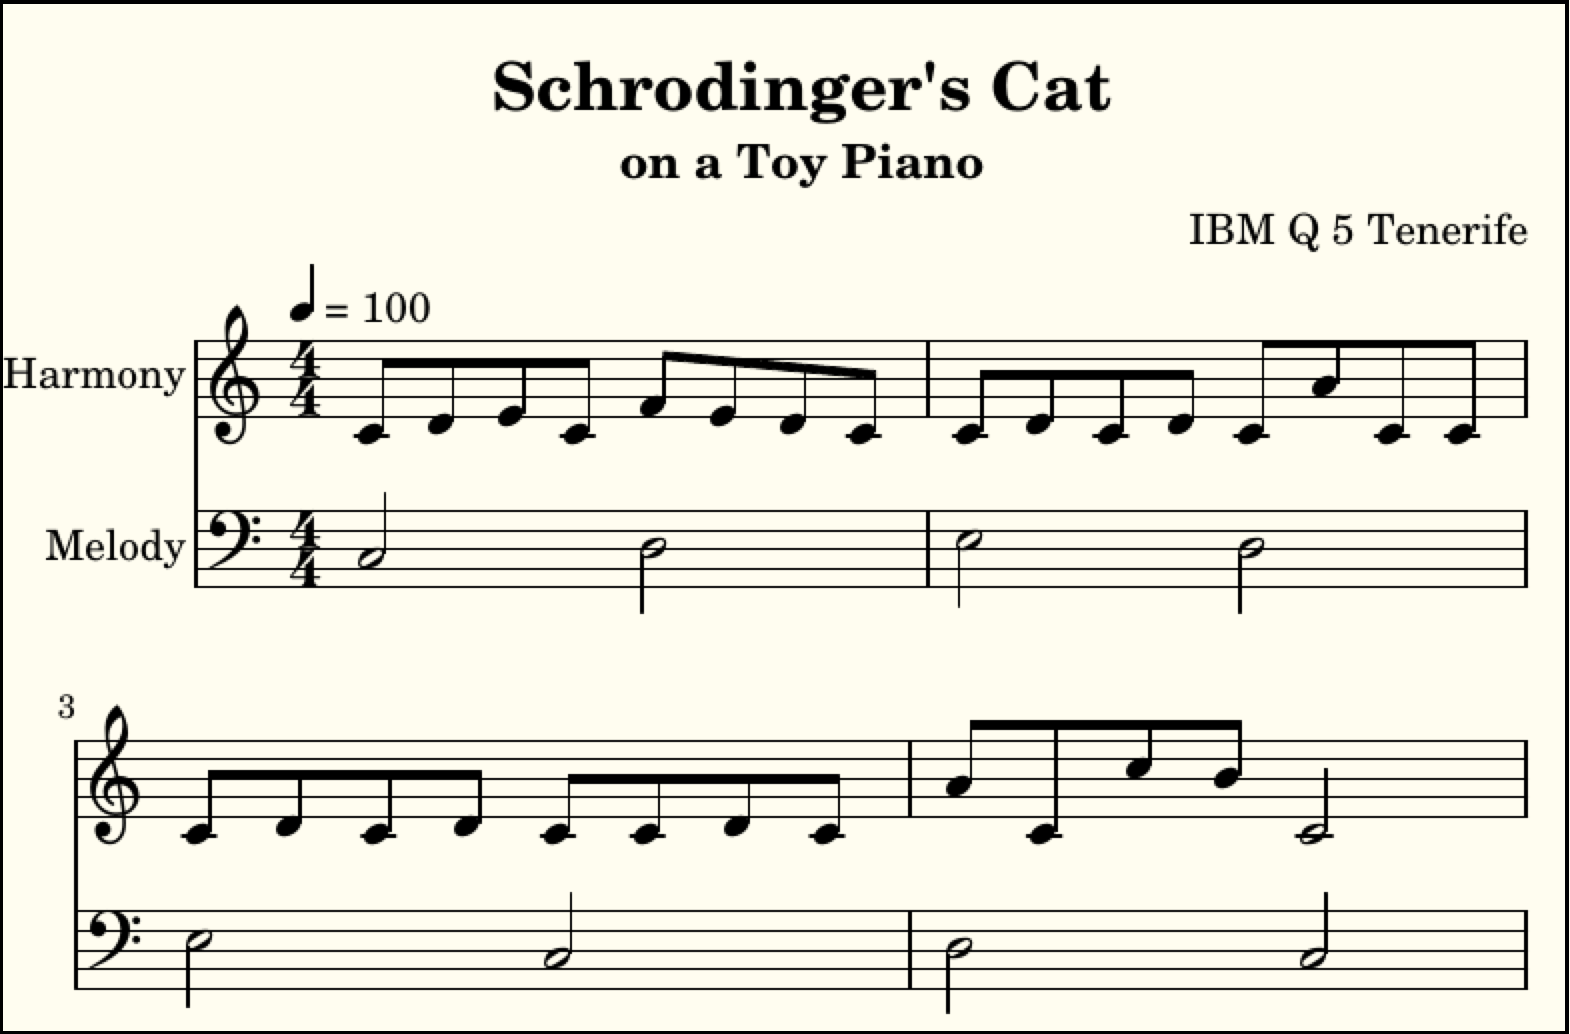
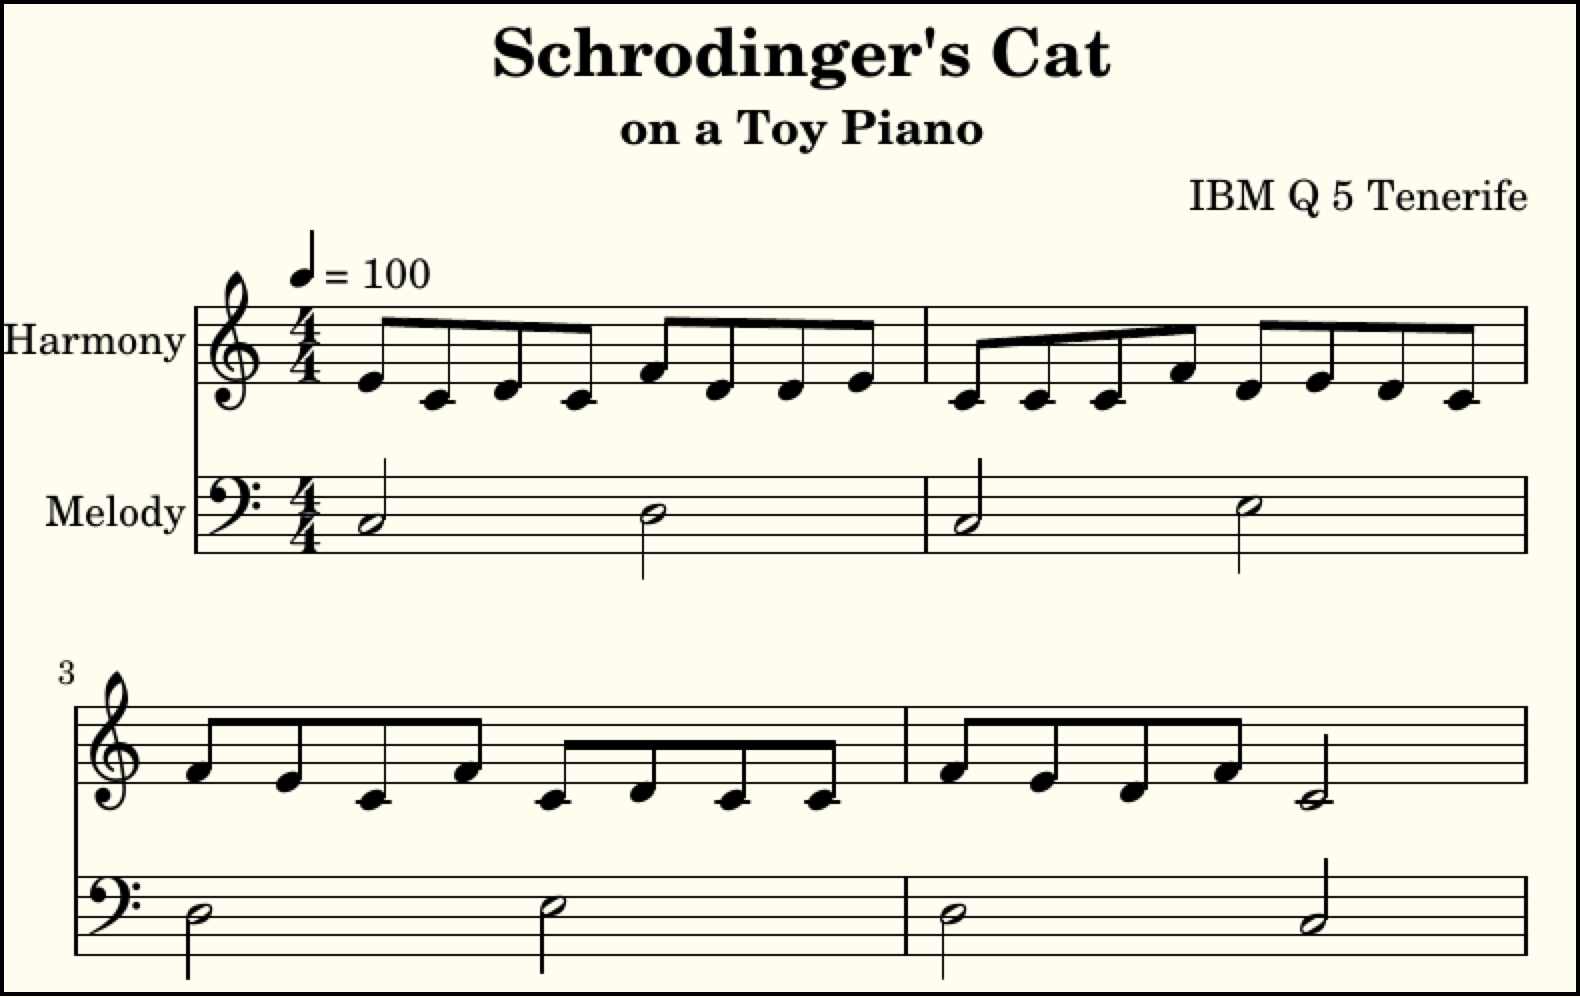
Doc updates and bulletproofing

Changed region(s): [[0.0, 0.0, 1.0, 1.0], [0.3121, 0.0, 0.7178, 0.1864]]

diff --git a/static/index.html b/static/index.html
@@ -63,7 +63,7 @@
                           orthogonal matrix</a> on the right will then contain values, that when squared,
                           comprise a <a href="https://en.wikipedia.org/wiki/Unistochastic_matrix" target="_blank">
                           unistochastic matrix</a> that approximates
-                          your desired probabilities. To see the orthogonal matrix values, de-selected the
+                          your desired probabilities. To see the orthogonal matrix values, deselect the
                           Show Probabilities checkbox.
                       </p>
                     </v-container>
@@ -100,7 +100,7 @@
                           orthogonal matrix</a> on the right will then contain values, that when squared,
                           comprise a <a href="https://en.wikipedia.org/wiki/Unistochastic_matrix" target="_blank">
                           unistochastic matrix</a> that approximates
-                          your desired probabilities. To see the orthogonal matrix values, de-selected the
+                          your desired probabilities. To see the orthogonal matrix values, deselect the
                           Show Probabilities checkbox.
                       </p>
                     </v-container>
@@ -117,7 +117,7 @@
               </v-container>
             </v-tab-item>
 
-            <v-tab>Compose & Play</v-tab>
+            <v-tab>Performance</v-tab>
             <v-tab-item>
               <v-container fluid>
                 <div id="piano">

diff --git a/static/piano.js b/static/piano.js
@@ -49,11 +49,11 @@ var vm = Vue.component('piano-component', {
         '<button v-if="playing_time&gt;1" @click="stopplay">Stop<i class="fa fa-pause"></i></button>' +
         '<br/><br/>' +
         '<p>Choose a <a href="https://en.wikipedia.org/wiki/Counterpoint#Species_counterpoint" ' +
-          'target="_blank"> counterpoint species</a> to generate by clicking one of the Species' +
-          ' buttons above. When the dialog appears that contains a string representing the composition,' +
+          'target="_blank"> counterpoint species</a> to perform by clicking one of the Species' +
+          ' buttons above. When the dialog appears that contains a string representing the performance,' +
           ' you may optionally paste it into a Lilypond music score engraver. After clicking the OK' +
-          ' button, click the Play button to hear the music composed by you and the quantum computer' +
-          ' or simulator.</p>' +
+          ' button, click the Play button to hear a performance by the quantum computer or simulator' +
+          ' of the quantum music you composed.</p>' +
       '</div>' +
     '</div>',
   data: function () {

diff --git a/batch_quantum_toy_piano_service_ibmq.py b/batch_quantum_toy_piano_service_ibmq.py
@@ -57,8 +57,9 @@ CIRCUIT_RESULT_KEY_LENGTH = 5 # '000_m' is such a key, for example
 @app.route('/toy_piano_counterpoint')
 def toy_piano_counterpoint():
     pitch_index = int(request.args['pitch_index'])
-    if (pitch_index >= NUM_PITCHES):
-        pitch_index %= (DIATONIC_SCALE_OCTAVE_PITCHES - 1)
+    pitch_index %= (DIATONIC_SCALE_OCTAVE_PITCHES - 1)
+    if pitch_index >= NUM_PITCHES:
+        pitch_index = 0
 
     species = int(request.args['species'])
 

diff --git a/README.md b/README.md
@@ -1,10 +1,12 @@
 # Quantum Music Composer for IBM quantum computers
 
-The Quantum Music Composer application enables a user to compose music that is performed by a quantum computer. The musical *composition* consists of a series of quantum circuits. Each quantum musical tone [[1]](#references) in the *performance* of a composition is a quantum state, which when measured results in a pitch determined by quantum mechanical behavior. This normally results in unique melodies and harmonies each time a given composition is performed by the quantum computer. Fig. 1 contains a music score captured from one such performance.
+The Quantum Music Composer application enables a user to compose music that is performed by a quantum computer. The musical *composition* consists of a series of quantum circuits. Each quantum musical tone [[1]](#references) in the *performance* of a composition is a quantum state, which when measured results in a pitch determined by quantum mechanical behavior. This normally results in unique melodies and harmonies each time a given composition is performed by the quantum computer. Fig. 1 contains a musical score captured from one such performance.
 
 ![third-species-performance-ibmq](docimages/third-species-performance-ibmq.png)
 
-FIG. 1. Music score captured from the performance of a quantum musical composition
+FIG. 1. Musical score captured from the performance of a quantum musical composition
+
+## Creating a quantum musical composition
 
 To create a quantum musical composition, the user first supplies the desired probabilities for a given pitch to follow another given pitch *melodically*. Take a moment to examine the music score in Fig. 1 and notice that the staff labeled **Melody** contains an eight-note melody. Please also realize that the staff labeled **Harmony** actually contains seven four-note melodies.  Users enter their desired probabilities into the [doubly-stochastic matrix](https://en.wikipedia.org/wiki/Doubly_stochastic_matrix) located on the left side of the **MELODY MATRICES** tab, shown in Fig 2. 
 
@@ -18,15 +20,17 @@ To continue creating the quantum musical composition, the user supplies the desi
 
 ![harmony-tab-unistochastic-matrix](docimages/harmony-tab-unistochastic-matrix.png)
 
-FIG. 3. User interface for composing quantum melodic progressions
+FIG. 3. User interface for composing quantum harmonic intervals
 
- 
+The harmonic probabilities entered will apply to all of the notes in the performance except for the final note on each staff, as those two notes will have the same pitch class as the first note in the melody staff. This provides a sense of resolution and finality to the performance, and are the only two notes in the performance that aren't determined by the quantum computer.
 
-Here's the Lilipond string: 
+## Performing a quantum musical composition
 
-\version "2.18.2" \paper {#(set-paper-size "a5")} \header {title="Schrodinger's Cat" subtitle="on a Toy Piano" composer = "A. Quantum Computer"}  melody = \absolute { \clef "bass" \numericTimeSignature \time 4/4 \tempo 4 = 100 c2 f2 e2 c2 d2 c2 c2 c2} harmony = \absolute { \clef "treble" \numericTimeSignature \time 4/4  e'8 c''8 e'8 d'8 d'8 e'8 c'8 d'8 c'8 a'8 f'8 c'8 e'8 f'8 c'8 d'8 f'8 c'8 f'8 c'8 e'8 f'8 f'8 f'8 e'8 d'8 c'8 f'8 c'2} \score { << \new Staff \with {instrumentName = #"Harmony"}  { \harmony } \new Staff \with {instrumentName = #"Melody"}  { \melody } >> }
+To have the quantum computer or simulator perform your quantum musical composition, navigate to the Performance tab shown in Fig 4.
 
+![performance-tab-ibmq](docimages/performance-tab-ibmq.png)
 
+FIG. 4. User interface for performing quantum musical composition
 
 ## Installation
 
